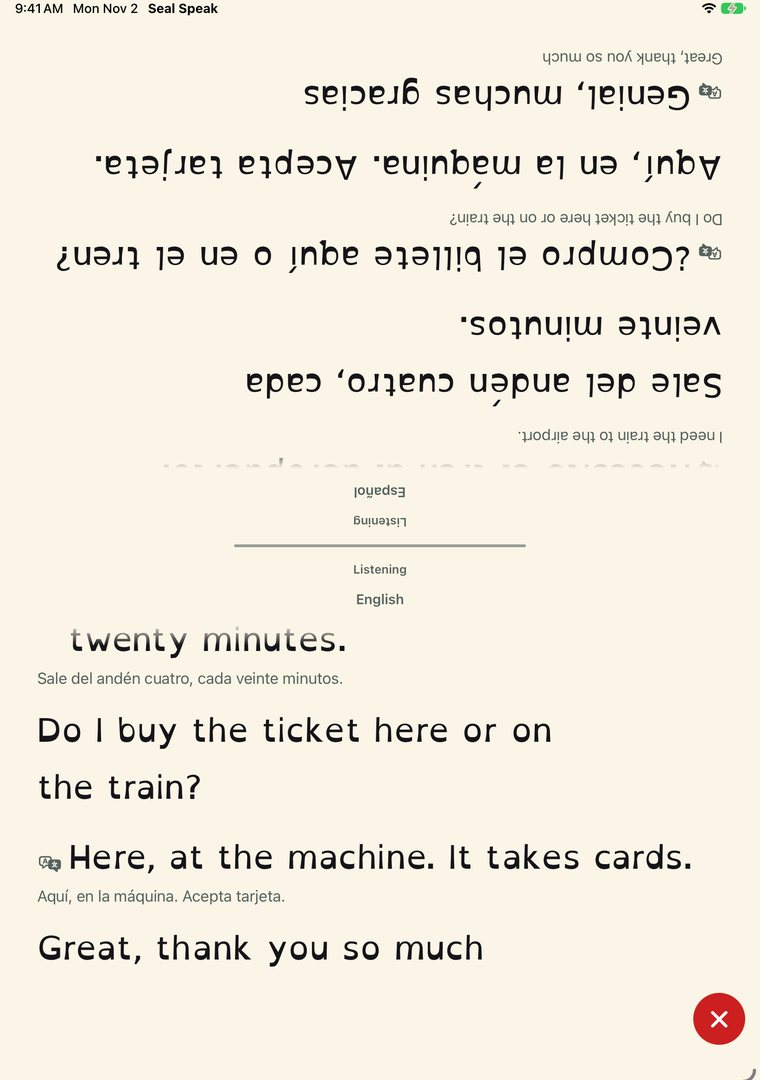
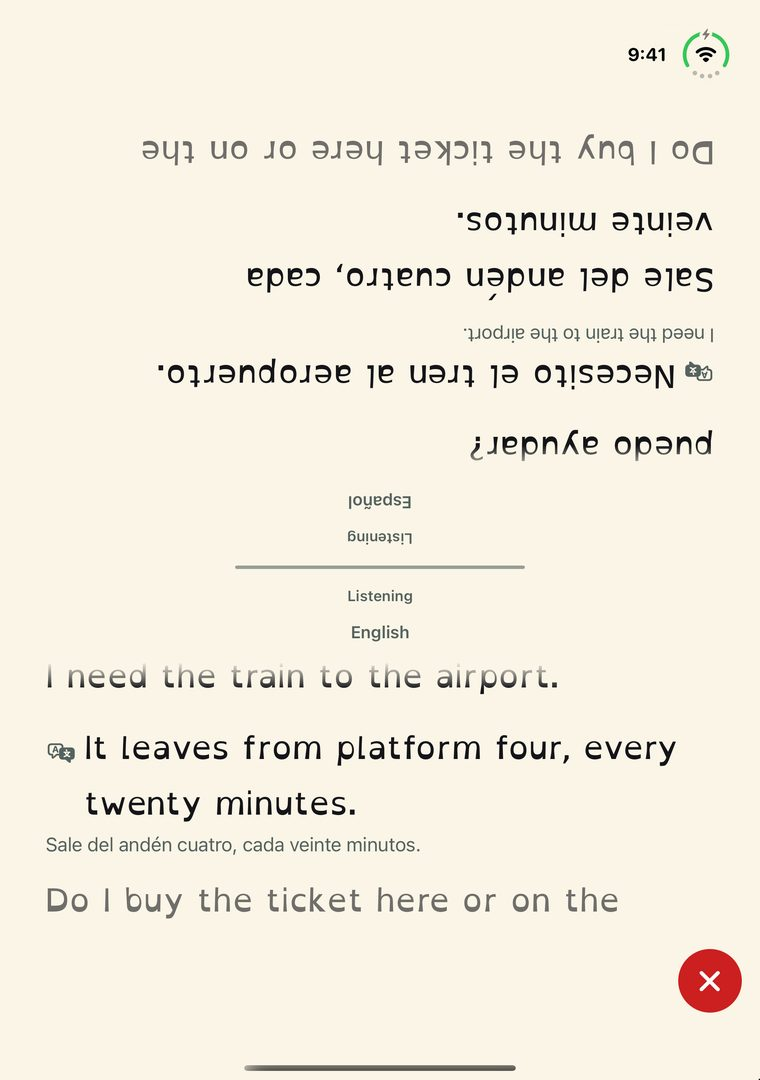
Website mock-up: the Duo plays the app's real screens from the iPhone Duo simulator; support page matches what ships (#258)
- Every Duo screen is now the app on the iPhone Duo simulator, unfolded by hand in DeviceHub (2026-11-02):
  folded captions (outer, frame 10), open flat in landscape with [ Face to face ] (inner 20), upright with each
  half picking its language (inner 24), the split (inner 29). The iPad stand-ins are gone.
- The scroll follows what the simulator did: folded, opening (inner dark), landscape with the button, the touch,
  turning upright, choosing languages, the split; backwards on the way up. Reduce Motion: folded and split stills.
- Support page, from the sources (site/support.html was edited directly in 283a402 and failed the build check):
  iPhone, iPad and iPhone Duo; Mac app in testing; $4.99 once on iPhone and iPad; Live Translation in testing,
  $4.99 on iPhone, iPad and Duo; the Mac app its own $4.99 purchase, Live Translation $1.99 there.

Refs #235

Claude-Session: https://claude.ai/code/session_013wtERa7VUPP4sKWdxRxBXf

diff --git a/site/he/index.html b/site/he/index.html
@@ -646,9 +646,9 @@
   <!-- iPhone Duo (#258). Measured from Xcode's iPhone Duo simulator profile (iPhone19,4): folded, the outer screen is
        466 x 678 pt with tight corners on the hinge (left) side; open, the inner screen is 669 x 951 pt, and folds in half
        across its long side, so it opens like a book into a landscape 951 x 669 and turns upright to its own portrait.
-       The screens are real app screenshots: the outer one from the Duo simulator, the inner ones from the iPad Air 11-inch
-       simulator, cropped to the Duo's shape, because the Duo simulator can't be unfolded from the command line.
-       Scrolling unfolds it; scrolling back folds it. Reduce Motion or no JavaScript: two still pictures. -->
+       Every screen is the app on the iPhone Duo simulator, unfolded by hand in DeviceHub (2026-11-02): folded captions on
+       the outer screen; open flat in landscape with [ Face to face ]; upright, each half picking its language; the split.
+       Scrolling plays that in order; scrolling back plays it backwards. Reduce Motion or no JavaScript: two stills. -->
   <section class="band scene duo-section" id="face-to-face" aria-labelledby="f2f-h" data-duo>
     <div class="wrap duo-words">
       <h2 id="f2f-h">לדבר משני צדי השולחן, בשתי שפות.</h2>
@@ -659,18 +659,18 @@
         <div>
           <ol class="duo-steps">
             <li data-step="1"><b>Folded: one language, like an iPhone</b> The other person's words show up translated into yours, with what they said in small type underneath.</li>
-            <li data-step="2"><b>Opening:</b> It opens like a book. Stood up, the inside screen is big enough for two, so a Face to face button shows up at the top.</li>
-            <li data-step="3"><b>Open: face to face, a language for each half</b> Tap it and the screen splits. Your half faces you, theirs is turned to face them. Each half picks its language and shows the whole conversation.</li>
+            <li data-step="2"><b>Opening:</b> It opens like a book. The inside screen is big enough for two, so a Face to face button shows up at the top.</li>
+            <li data-step="3"><b>Open: face to face, a language for each half</b> Tap it and stand the Duo up. Each half picks its language, then the screen splits: your half faces you, theirs is turned to face them, and each shows the whole conversation.</li>
           </ol>
         </div>
         <div class="duo-stage" data-duo-stage role="img" aria-label="An iPhone Duo. Folded, it shows translated captions like an iPhone. Opened, Seal Speak offers Face to face, and the screen splits in two: one half turned to face each person, each in its own language." hidden>
           <div class="duo-rot">
             <div class="duo-body" aria-hidden="true" data-app lang="en" dir="ltr">
               <div class="duo-half duo-cover">
-                <div class="duo-face duo-front"><div class="duo-clip"><div class="duo-scr"><div class="duo-pic"><img class="duo-img-open" src="../assets/duo/inner-face-to-face-offered.jpg" alt=""><img class="duo-img-split" src="../assets/duo/inner-split.jpg" alt=""><span class="duo-tap"></span></div></div></div></div>
+                <div class="duo-face duo-front"><div class="duo-clip"><div class="duo-scr"><img class="duo-img-land" src="../assets/duo/inner-open-landscape.jpg" alt=""><span class="duo-tap"></span><div class="duo-pic"><img class="duo-img-choose" src="../assets/duo/inner-choose-languages.jpg" alt=""><img class="duo-img-split" src="../assets/duo/inner-split.jpg" alt=""></div></div></div></div>
                 <div class="duo-face duo-back"><img class="duo-outer" src="../assets/duo/outer-captions.jpg" alt=""></div>
               </div>
-              <div class="duo-half duo-base"><div class="duo-clip"><div class="duo-scr"><div class="duo-pic"><img class="duo-img-open" src="../assets/duo/inner-face-to-face-offered.jpg" alt=""><img class="duo-img-split" src="../assets/duo/inner-split.jpg" alt=""><span class="duo-tap"></span></div></div></div></div>
+              <div class="duo-half duo-base"><div class="duo-clip"><div class="duo-scr"><img class="duo-img-land" src="../assets/duo/inner-open-landscape.jpg" alt=""><span class="duo-tap"></span><div class="duo-pic"><img class="duo-img-choose" src="../assets/duo/inner-choose-languages.jpg" alt=""><img class="duo-img-split" src="../assets/duo/inner-split.jpg" alt=""></div></div></div></div>
             </div>
           </div>
         </div>

diff --git a/site/index.html b/site/index.html
@@ -631,9 +631,9 @@
   <!-- iPhone Duo (#258). Measured from Xcode's iPhone Duo simulator profile (iPhone19,4): folded, the outer screen is
        466 x 678 pt with tight corners on the hinge (left) side; open, the inner screen is 669 x 951 pt, and folds in half
        across its long side, so it opens like a book into a landscape 951 x 669 and turns upright to its own portrait.
-       The screens are real app screenshots: the outer one from the Duo simulator, the inner ones from the iPad Air 11-inch
-       simulator, cropped to the Duo's shape, because the Duo simulator can't be unfolded from the command line.
-       Scrolling unfolds it; scrolling back folds it. Reduce Motion or no JavaScript: two still pictures. -->
+       Every screen is the app on the iPhone Duo simulator, unfolded by hand in DeviceHub (2026-11-02): folded captions on
+       the outer screen; open flat in landscape with [ Face to face ]; upright, each half picking its language; the split.
+       Scrolling plays that in order; scrolling back plays it backwards. Reduce Motion or no JavaScript: two stills. -->
   <section class="band scene duo-section" id="face-to-face" aria-labelledby="f2f-h" data-duo>
     <div class="wrap duo-words">
       <h2 id="f2f-h">Talk across the table, in two languages.</h2>
@@ -644,18 +644,18 @@
         <div>
           <ol class="duo-steps">
             <li data-step="1"><b>Folded: one language, like an iPhone</b> The other person's words show up translated into yours, with what they said in small type underneath.</li>
-            <li data-step="2"><b>Opening:</b> It opens like a book. Stood up, the inside screen is big enough for two, so a Face to face button shows up at the top.</li>
-            <li data-step="3"><b>Open: face to face, a language for each half</b> Tap it and the screen splits. Your half faces you, theirs is turned to face them. Each half picks its language and shows the whole conversation.</li>
+            <li data-step="2"><b>Opening:</b> It opens like a book. The inside screen is big enough for two, so a Face to face button shows up at the top.</li>
+            <li data-step="3"><b>Open: face to face, a language for each half</b> Tap it and stand the Duo up. Each half picks its language, then the screen splits: your half faces you, theirs is turned to face them, and each shows the whole conversation.</li>
           </ol>
         </div>
         <div class="duo-stage" data-duo-stage role="img" aria-label="An iPhone Duo. Folded, it shows translated captions like an iPhone. Opened, Seal Speak offers Face to face, and the screen splits in two: one half turned to face each person, each in its own language." hidden>
           <div class="duo-rot">
             <div class="duo-body" aria-hidden="true" data-app>
               <div class="duo-half duo-cover">
-                <div class="duo-face duo-front"><div class="duo-clip"><div class="duo-scr"><div class="duo-pic"><img class="duo-img-open" src="assets/duo/inner-face-to-face-offered.jpg" alt=""><img class="duo-img-split" src="assets/duo/inner-split.jpg" alt=""><span class="duo-tap"></span></div></div></div></div>
+                <div class="duo-face duo-front"><div class="duo-clip"><div class="duo-scr"><img class="duo-img-land" src="assets/duo/inner-open-landscape.jpg" alt=""><span class="duo-tap"></span><div class="duo-pic"><img class="duo-img-choose" src="assets/duo/inner-choose-languages.jpg" alt=""><img class="duo-img-split" src="assets/duo/inner-split.jpg" alt=""></div></div></div></div>
                 <div class="duo-face duo-back"><img class="duo-outer" src="assets/duo/outer-captions.jpg" alt=""></div>
               </div>
-              <div class="duo-half duo-base"><div class="duo-clip"><div class="duo-scr"><div class="duo-pic"><img class="duo-img-open" src="assets/duo/inner-face-to-face-offered.jpg" alt=""><img class="duo-img-split" src="assets/duo/inner-split.jpg" alt=""><span class="duo-tap"></span></div></div></div></div>
+              <div class="duo-half duo-base"><div class="duo-clip"><div class="duo-scr"><img class="duo-img-land" src="assets/duo/inner-open-landscape.jpg" alt=""><span class="duo-tap"></span><div class="duo-pic"><img class="duo-img-choose" src="assets/duo/inner-choose-languages.jpg" alt=""><img class="duo-img-split" src="assets/duo/inner-split.jpg" alt=""></div></div></div></div>
             </div>
           </div>
         </div>

diff --git a/site/devices.js b/site/devices.js
@@ -135,26 +135,29 @@ function mac(win) {
 }
 
 // iPhone Duo (#258), measured from Xcode's iPhone Duo simulator profile, showing the app's real screens (see
-// devices.css): folded, the outer screen shows translated captions. It opens like a book, hinge on the left, into a
-// landscape inner screen, then turns upright to the inner screen's portrait. There the app offers [ Face to face ]
-// (FaceToFace.offersSplit: big enough for two); a touch on it, and the split, one half turned to each person.
+// devices.css), playing what the real Duo simulator did when unfolded by hand (2026-11-02): folded, the outer screen
+// shows translated captions. It opens like a book, hinge on the left, and the inner screen comes on in landscape with
+// [ Face to face ] in the top row (FaceToFace.offersSplit: big enough for two). A touch on it; the Duo turns upright,
+// each half picks its language; then the split, one half turned to each person.
 // Scrolling plays that in order and scrolling back plays it backwards: duoFrame turns how far through the section you
-// are (0 to 1) into the fold, the turn, the inner screen lighting, the touch, the split and which step's words show.
+// are (0 to 1) into the fold, the landscape screen, the touch, the turn, the portrait screens and the step's words.
 const clamp = (x) => Math.min(1, Math.max(0, x))
 const ease = (t) => t * t * (3 - 2 * t)
 export function duoFrame(p) {
-  const fold = 1 - ease(clamp((p - 0.18) / 0.24)) // folded until 0.18, open flat by 0.42
-  const turn = ease(clamp((p - 0.42) / 0.12)) // then upright by 0.54
-  const lit = ease(clamp((p - 0.5) / 0.08)) // the inner screen comes on as it stands up; dark while it opens
-  const press = clamp(1 - Math.abs(p - 0.64) / 0.04) // a touch on Face to face
-  const split = ease(clamp((p - 0.68) / 0.14)) // the split by 0.82
+  const fold = 1 - ease(clamp((p - 0.15) / 0.2)) // folded until 0.15, open flat by 0.35
+  const land = ease(clamp((p - 0.35) / 0.06)) * (1 - ease(clamp((p - 0.6) / 0.06))) // landscape screen, dark while it opens
+  const press = clamp(1 - Math.abs(p - 0.48) / 0.04) // a touch on Face to face
+  const turn = ease(clamp((p - 0.53) / 0.12)) // then upright by 0.65
+  const lit = ease(clamp((p - 0.6) / 0.06)) // the portrait screens: choosing languages, then the split
+  const split = ease(clamp((p - 0.76) / 0.12)) // the split by 0.88
   const steps = [
-    1 - ease(clamp((p - 0.2) / 0.06)),
-    ease(clamp((p - 0.26) / 0.06)) * (1 - ease(clamp((p - 0.6) / 0.06))),
-    ease(clamp((p - 0.66) / 0.06))
+    1 - ease(clamp((p - 0.17) / 0.05)),
+    ease(clamp((p - 0.22) / 0.05)) * (1 - ease(clamp((p - 0.55) / 0.05))),
+    ease(clamp((p - 0.6) / 0.05))
   ]
-  const state = fold > 0.999 ? 'folded' : fold > 0.001 ? 'opening' : turn < 0.999 ? 'turning' : split < 0.001 ? 'open' : split < 0.999 ? 'splitting' : 'split'
-  return { fold, turn, lit, press, split, steps, state }
+  const state = fold > 0.999 ? 'folded' : fold > 0.001 ? 'opening' : turn < 0.001 ? 'open' : turn < 0.999 ? 'turning'
+    : split < 0.001 ? 'choosing' : split < 0.999 ? 'splitting' : 'split'
+  return { fold, land, press, turn, lit, split, steps, state }
 }
 
 function duoScroll(section) {
@@ -175,6 +178,7 @@ function duoScroll(section) {
     stage.style.setProperty('--press', f.press.toFixed(4))
     stage.style.setProperty('--r', f.turn.toFixed(4))
     stage.style.setProperty('--lit', f.lit.toFixed(4))
+    stage.style.setProperty('--land', f.land.toFixed(4))
     stage.dataset.state = f.state
     steps.forEach((li, i) => li.style.setProperty('--o', f.steps[i].toFixed(3)))
   }

diff --git a/site-src/pages/index.html b/site-src/pages/index.html
@@ -630,9 +630,9 @@
   <!-- iPhone Duo (#258). Measured from Xcode's iPhone Duo simulator profile (iPhone19,4): folded, the outer screen is
        466 x 678 pt with tight corners on the hinge (left) side; open, the inner screen is 669 x 951 pt, and folds in half
        across its long side, so it opens like a book into a landscape 951 x 669 and turns upright to its own portrait.
-       The screens are real app screenshots: the outer one from the Duo simulator, the inner ones from the iPad Air 11-inch
-       simulator, cropped to the Duo's shape, because the Duo simulator can't be unfolded from the command line.
-       Scrolling unfolds it; scrolling back folds it. Reduce Motion or no JavaScript: two still pictures. -->
+       Every screen is the app on the iPhone Duo simulator, unfolded by hand in DeviceHub (2026-11-02): folded captions on
+       the outer screen; open flat in landscape with [ Face to face ]; upright, each half picking its language; the split.
+       Scrolling plays that in order; scrolling back plays it backwards. Reduce Motion or no JavaScript: two stills. -->
   <section class="band scene duo-section" id="face-to-face" aria-labelledby="f2f-h" data-duo>
     <div class="wrap duo-words">
       <h2 id="f2f-h">{{index.talk-across-the-table}}</h2>
@@ -651,10 +651,10 @@
           <div class="duo-rot">
             <div class="duo-body" aria-hidden="true" data-app>
               <div class="duo-half duo-cover">
-                <div class="duo-face duo-front"><div class="duo-clip"><div class="duo-scr"><div class="duo-pic"><img class="duo-img-open" src="assets/duo/inner-face-to-face-offered.jpg" alt=""><img class="duo-img-split" src="assets/duo/inner-split.jpg" alt=""><span class="duo-tap"></span></div></div></div></div>
+                <div class="duo-face duo-front"><div class="duo-clip"><div class="duo-scr"><img class="duo-img-land" src="assets/duo/inner-open-landscape.jpg" alt=""><span class="duo-tap"></span><div class="duo-pic"><img class="duo-img-choose" src="assets/duo/inner-choose-languages.jpg" alt=""><img class="duo-img-split" src="assets/duo/inner-split.jpg" alt=""></div></div></div></div>
                 <div class="duo-face duo-back"><img class="duo-outer" src="assets/duo/outer-captions.jpg" alt=""></div>
               </div>
-              <div class="duo-half duo-base"><div class="duo-clip"><div class="duo-scr"><div class="duo-pic"><img class="duo-img-open" src="assets/duo/inner-face-to-face-offered.jpg" alt=""><img class="duo-img-split" src="assets/duo/inner-split.jpg" alt=""><span class="duo-tap"></span></div></div></div></div>
+              <div class="duo-half duo-base"><div class="duo-clip"><div class="duo-scr"><img class="duo-img-land" src="assets/duo/inner-open-landscape.jpg" alt=""><span class="duo-tap"></span><div class="duo-pic"><img class="duo-img-choose" src="assets/duo/inner-choose-languages.jpg" alt=""><img class="duo-img-split" src="assets/duo/inner-split.jpg" alt=""></div></div></div></div>
             </div>
           </div>
         </div>

diff --git a/site/devices.css b/site/devices.css
@@ -257,13 +257,15 @@ table.data tr:not(.cap) > * { border-bottom: 0; }
 .duo-scr { position: absolute; top: 0; width: calc(951 * var(--s)); height: calc(669 * var(--s)); }
 .duo-cover .duo-scr { inset-inline-start: 0; }
 .duo-base .duo-scr { inset-inline-start: calc(-475.5 * var(--s)); }
-/* The app's portrait screenshot, turned a quarter so it stands upright once the Duo does. */
+/* Open flat: the app's own landscape screen (951 x 669, [ Face to face ] in its top row), lit once the Duo is open. */
+.duo-img-land { position: absolute; inset: 0; width: 100%; height: 100%; display: block; opacity: var(--land, 0); }
+/* Upright: the app's portrait screens, turned a quarter inside the landscape body so they stand up when the Duo does. */
 .duo-pic { position: absolute; inset-inline-start: calc(141 * var(--s)); top: calc(-141 * var(--s)); width: calc(669 * var(--s)); height: calc(951 * var(--s));
   transform: rotate(90deg); opacity: var(--lit, 0); }
 .duo-pic img { position: absolute; inset: 0; width: 100%; height: 100%; object-fit: cover; display: block; }
 .duo-pic .duo-img-split { opacity: var(--split, 0); }
-/* A touch on [ Face to face ], where it sits in the app's top row. */
-.duo-tap { position: absolute; inset-inline-start: 80%; top: 5.3%; width: calc(44 * var(--s)); height: calc(44 * var(--s)); margin: calc(-22 * var(--s)) 0 0 calc(-22 * var(--s));
+/* A touch on [ Face to face ], where it sits in the landscape screen's top row. */
+.duo-tap { position: absolute; inset-inline-start: 73.7%; top: 5.6%; width: calc(44 * var(--s)); height: calc(44 * var(--s)); margin: calc(-22 * var(--s)) 0 0 calc(-22 * var(--s));
   border-radius: 50%; background: rgba(20, 81, 75, .28); box-shadow: 0 0 0 2px rgba(20, 81, 75, .55); opacity: var(--press, 0); transform: scale(calc(.6 + var(--press, 0) * .4)); }
 
 /* The two still pictures: the folded Duo and the opened, split Duo, same measurements, no 3D. */

diff --git a/site/support.html b/site/support.html
@@ -48,13 +48,10 @@
   <a href="privacy.html">privacy policy</a>.</p>
 
   <h3>What does Seal cost?</h3>
-  <p>$4.99, once, on iPhone and iPad. There are no ads and no subscriptions. Live Translation, still in testing,
-  will be an optional one-time add-on inside Seal Speak. The Mac app, also in testing, will be a separate purchase.</p>
+  <p>$4.99, once, on iPhone and iPad. No ads, no subscriptions. Live Translation, still in testing, will be an optional add-on: $4.99, once, on iPhone, iPad and iPhone Duo. The Mac app, also in testing, is its own purchase: $4.99, and Live Translation is $1.99 on the Mac.</p>
 
   <h3>Which devices and languages does it work with?</h3>
-  <p>iPhone 12 or newer and iPhone Duo, on iOS 26 or later, and iPad with an A14 chip or newer on iPadOS 26 or later.
-  The Mac app is in testing and needs Apple silicon (M1 or later) on macOS 26. Captions are in English in 1.0;
-  1.1 adds other caption languages (see <a href="versions.html">Versions</a>).</p>
+  <p>iPhone 12 or newer and iPhone Duo, on iOS 26 or later, and iPad with an A14 chip or newer on iPadOS 26 or later. The Mac app is in testing and needs Apple silicon (M1 or later) on macOS 26. Since 1.1 captions come in more languages: see <a href="versions.html">Versions</a>.</p>
 
   <h3>Why does it say "Speaker 1" and "Speaker 2"?</h3>
   <p>Seal starts a new line when the voice changes and labels it Speaker 1, Speaker 2. It goes by the
